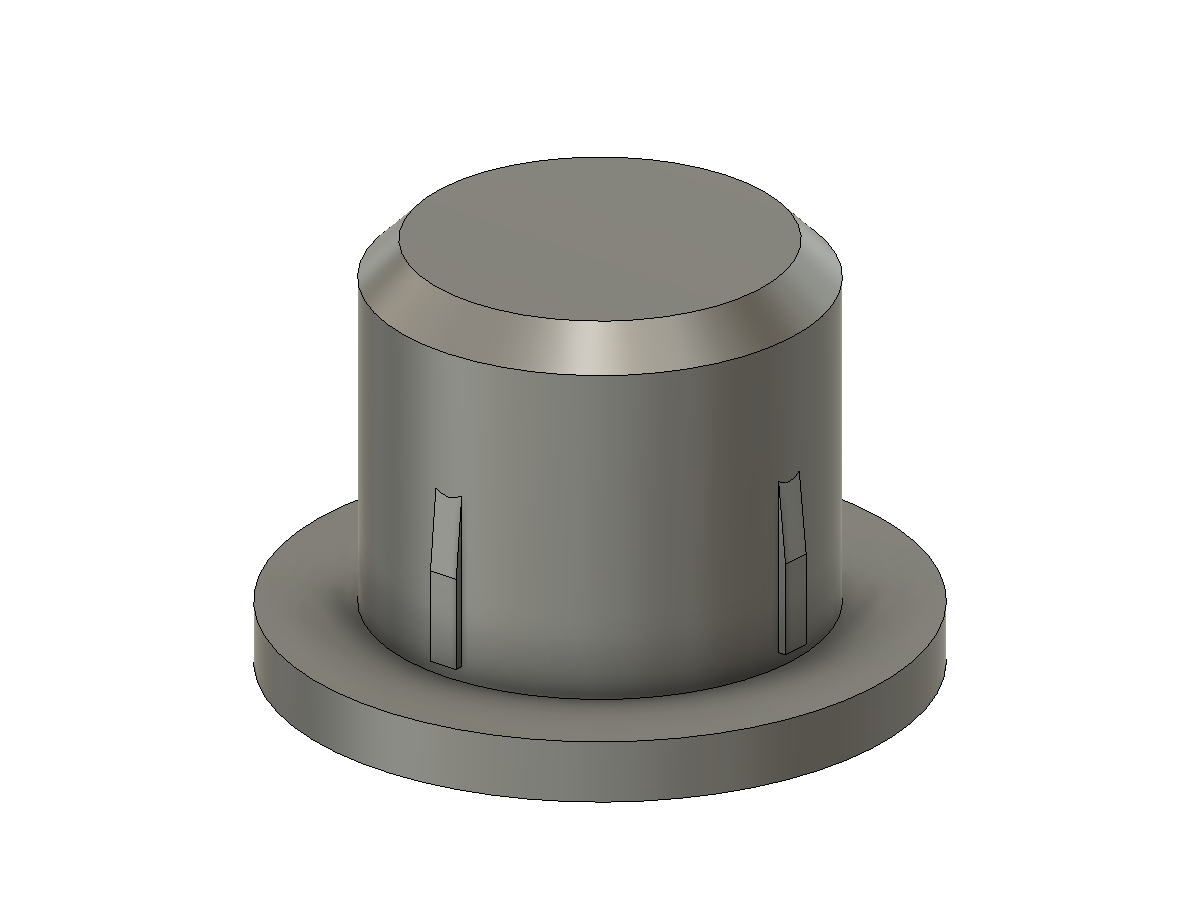
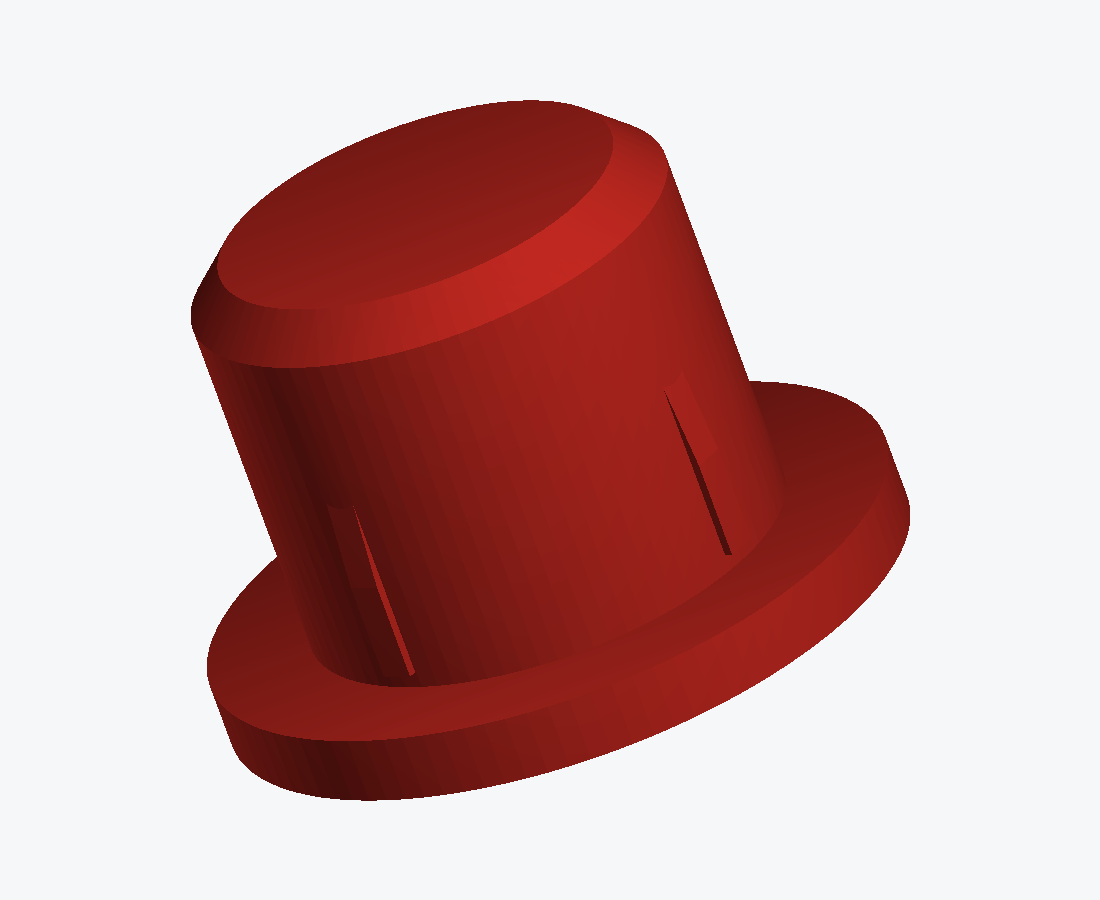
Generic-first intro, the desk's history, sibling link, reproducible renders
The tagline and README led with the Ergotron product name, which is the
thing the rename was for. They now say slotted uprights of a steel bench
frame first and name the desk as the example.

Adds the desk's provenance in Mike's words, as on the sibling site: Ergotron
of Eagan, Minnesota was what NOCs and data centers near him ran on in the
1990s, and this one held the row of computers that ran his employer's small
ISP until the company liquidated.

The sibling link still pointed at lan-skadis-mount. GitHub redirects it, but
the link text was stale.

The three part renders on the site were one-offs with no script behind them,
and the cradle bracket's predated its STL by a commit. render_part.py and
stamp_assets.py come over from the sibling repo unchanged, all three renders
are regenerated with it so they match, and every asset URL now carries a
content hash so Pages cannot serve a stale one.

Claude-Session: https://claude.ai/code/session_01FoDmXWCBAcNMibAdUqDKQj

diff --git a/docs/index.html b/docs/index.html
@@ -155,16 +155,16 @@
 <main>
   <header>
     <h1>Filament everywhere. So it hangs off the old Ergotron.</h1>
-    <p class="tagline">3D printed brackets that hook into the slotted uprights of an Ergotron LAN Organizer 3000 and cradle spools on two rods. No drilling, no hardware, nothing permanent. Free files, MIT licensed.</p>
+    <p class="tagline">3D printed brackets that hook into the slotted uprights of a steel bench frame, an Ergotron LAN Organizer 3000 in my case, and cradle spools on two rods. No drilling, no hardware, nothing permanent. Free files, MIT licensed.</p>
   </header>
 
   <figure class="zoomable">
-    <img src="images/shelf-loaded.jpg" alt="A loaded spool shelf: fifteen filament spools resting on two white PVC rods carried by red printed brackets hooked into a steel upright" data-zoom>
+    <img src="images/shelf-loaded.jpg?v=1bb53a07" alt="A loaded spool shelf: fifteen filament spools resting on two white PVC rods carried by red printed brackets hooked into a steel upright" data-zoom>
     <figcaption>Fifteen spools on one level, and the bracket that holds them. Nothing is screwed to the frame. The brackets hook into the same slots Ergotron's own shelves use, and lift back out.</figcaption>
   </figure>
 
   <model-viewer
-    src="models/spool-shelf.glb"
+    src="models/spool-shelf.glb?v=003eb26d"
     alt="3D model of one shelf level: two printed brackets hooked to uprights, two rods, end caps, three spools resting in the cradle and a label clip"
     camera-controls
     auto-rotate
@@ -181,16 +181,20 @@
   <p>Filament was living in a heap. Bags on the bench, spools stacked on their sides under the printers, and the one I wanted always at the bottom of the pile. Meanwhile the printers were sitting on an Ergotron LAN Organizer 3000, a 2004 vintage steel desk frame with punched slots up every upright. If you were designing a mounting surface for this from scratch, you would end up with that.</p>
   <p>The frame is discontinued. The order guide that outlived it, Ergotron 870-03-006, has frame widths and weight capacities and no slot dimensions at all. So the whole project starts with a ruler.</p>
 
+  <h2>The desk</h2>
+  <p>In the 1990s it felt like every NOC and data center, at least the ones near me, had furniture from <a href="https://www.ergotron.com/">Ergotron</a> in <a href="https://en.wikipedia.org/wiki/Eagan,_Minnesota">Eagan, Minnesota</a>. The desks matched the look those rooms had and the job they did.</p>
+  <p>The one I have sat in a data center with a row of computers on it. They ran the small ISP my employer operated. I picked it up when the company liquidated, after they were no more. The slotted uprights are the same ones that held their shelves, which is why nothing here needs a drill.</p>
+
   <h2>How it works</h2>
   <p>Two brackets hook into one upright each, and two rods span between them. Spools rest in the valley between the rods instead of threading onto a pole. That was not the first design. The first one was a single rod you hang spools on, and it lasted about ten seconds of thinking about daily use. Every spool change means pulling the pole and sliding everything off the end.</p>
   <p>With two rods you lift a spool straight up and out, and drop the next one in. Nothing else moves. A spool sitting in the cradle also rolls freely, so it feeds without a fight.</p>
   <div class="shots">
     <figure>
-      <img src="images/spool_cradle_bracket_iso.png" alt="The cradle bracket: hook blades at the back, triangular arm, two open saddles on top" loading="lazy" data-zoom>
+      <img src="images/spool_cradle_bracket_iso.png?v=d26df1be" alt="The cradle bracket: hook blades at the back, triangular arm, two open saddles on top" loading="lazy" data-zoom>
       <figcaption>The bracket. Hooks at the back, two open saddles on top, one lightening cutout in the middle.</figcaption>
     </figure>
     <figure>
-      <img src="images/rod_end_cap_iso.png" alt="The rod end cap: a wide flange and a ribbed stem" loading="lazy" data-zoom>
+      <img src="images/rod_end_cap_iso.png?v=bc3c34fb" alt="The rod end cap: a wide flange and a ribbed stem" loading="lazy" data-zoom>
       <figcaption>End cap. The stem grips the pipe bore, the flange keeps the rod from walking out of a saddle.</figcaption>
     </figure>
   </div>
@@ -203,7 +207,7 @@
   <p>Then the pipe. Schedule 40 one inch PVC has a published bore of 26.6&nbsp;mm. The actual pipe measured 30. The first set of end caps were scrap by 4&nbsp;mm, which is a lot of millimetres to be wrong by when the number is printed in a table.</p>
   <p>The third mistake was mine. The caps were too snug to start. The fix was not a bigger chamfer but a different rib shape. Each of the four crush ribs now starts flush with the stem at the tip and only rises to full height over the last 6&nbsp;mm, so the cap slides in loose, centres itself, and grips just as the flange lands.</p>
   <figure class="zoomable">
-    <img src="images/shelf-prototype.jpg" alt="An early test with a copper pipe and a length of conduit carrying spools" loading="lazy" data-zoom>
+    <img src="images/shelf-prototype.jpg?v=7963c04f" alt="An early test with a copper pipe and a length of conduit carrying spools" loading="lazy" data-zoom>
     <figcaption>Before buying pipe, a copper offcut and a length of conduit proved the cradle worked. The saddles take anything up to the configured diameter, so the rod is a decision you can put off.</figcaption>
   </figure>
 
@@ -226,11 +230,11 @@
   <h2>The small parts</h2>
   <div class="shots">
     <figure>
-      <img src="images/rod_label_clip_iso.png" alt="The label clip: a C ring with a paddle carrying a label face" loading="lazy" data-zoom>
+      <img src="images/rod_label_clip_iso.png?v=cd7c8872" alt="The label clip: a C ring with a paddle carrying a label face" loading="lazy" data-zoom>
       <figcaption>Label clip. Snaps on from below, slides to sit under its spool, takes a 1" × 2⅛" label.</figcaption>
     </figure>
     <figure>
-      <img src="images/spool_cradle_bracket_iso.png" alt="The bracket again, showing the hook stack" loading="lazy" data-zoom>
+      <img src="images/spool_cradle_bracket_iso.png?v=d26df1be" alt="The bracket again, showing the hook stack" loading="lazy" data-zoom>
       <figcaption>Four hook rows on 1" pitch. The blade column is centred, so one bracket fits any upright.</figcaption>
     </figure>
   </div>
@@ -264,7 +268,7 @@
     <li>STLs for every part, verified watertight against the CAD volume</li>
     <li>STEP and Fusion archives if you want to change things</li>
     <li>The build scripts, with every dimension at the top of one file per part</li>
-    <li>A sibling project, <a href="https://github.com/mhuot/lan-skadis-mount">lan-skadis-mount</a>, hangs an IKEA SKÅDIS pegboard on the same uprights and doubles as a backstop behind the spools</li>
+    <li>A sibling project, <a href="https://github.com/mhuot/skadis-bench-frame-mount">skadis-bench-frame-mount</a>, hangs an IKEA SKÅDIS pegboard on the same uprights and doubles as a backstop behind the spools</li>
   </ul>
   <p><a class="cta" href="https://github.com/mhuot/bench-frame-spool-shelf">Get it on GitHub</a></p>
 

diff --git a/scripts/render_part.py b/scripts/render_part.py
@@ -1,0 +1,156 @@
+"""Render an exported STL to a PNG for the docs page.
+
+Runs locally in .venv (trimesh, numpy, pillow):
+
+    .venv/bin/python scripts/render_part.py exports/skadis_nut_left.stl \
+        docs/images/nut_bracket_front.png --azimuth 35
+
+A painter's-algorithm rasteriser rather than a real renderer: no GPU, no
+headless GL, nothing to install beyond what check_stl.py already needs. It
+is enough to prove a part looks like what the build script says it is, and
+to put an honest picture on the page.
+"""
+
+import argparse
+
+import numpy as np
+import trimesh
+from PIL import Image
+
+WIDTH, HEIGHT = 1100, 900
+BACKGROUND = np.array([0.965, 0.969, 0.976])  # matches the page's --bg
+PART_COLOUR = np.array([0.776, 0.165, 0.133])  # the red ASA, sRGB
+CAP_COLOUR = np.array([0.93, 0.62, 0.58])  # cut faces of a section, so voids read
+LIGHT = np.array([0.35, 0.5, 0.79])
+# Surfaces further from the camera are darkened by up to this fraction. Flat
+# orthographic shading gives a hole whose floor is parallel to the surface
+# around it exactly the same tone as that surface, which made a 20 mm deep
+# entry slot vanish entirely; a depth cue is the difference between a
+# drawing of a solid block and a drawing of the part.
+DEPTH_FOG = 0.35
+
+
+def oriented(mesh, azimuth_deg, elevation_deg):
+    """A copy of the mesh turned to the requested view."""
+    working = mesh.copy()
+    for angle, axis in ((-elevation_deg, [1, 0, 0]), (azimuth_deg, [0, 0, 1])):
+        working.apply_transform(
+            trimesh.transformations.rotation_matrix(
+                np.radians(angle), axis, working.centroid
+            )
+        )
+    return working
+
+
+def shaded(mesh):
+    """Per-face brightness from a single key light plus ambient."""
+    triangles = mesh.vertices[:, [0, 2, 1]][mesh.faces]
+    normals = np.cross(
+        triangles[:, 1] - triangles[:, 0], triangles[:, 2] - triangles[:, 0]
+    )
+    lengths = np.linalg.norm(normals, axis=1, keepdims=True)
+    normals = normals / np.where(lengths == 0, 1, lengths)
+    key = LIGHT / np.linalg.norm(LIGHT)
+    return np.clip(np.abs(normals @ key), 0, 1) * 0.62 + 0.38, triangles
+
+
+# pylint: disable-next=too-many-locals
+def render(mesh, azimuth_deg, elevation_deg, is_cap=None):
+    """Rasterise the mesh to an RGB array."""
+    brightness, triangles = shaded(oriented(mesh, azimuth_deg, elevation_deg))
+    colours = np.tile(PART_COLOUR, (len(triangles), 1))
+    if is_cap is not None:
+        colours[is_cap] = CAP_COLOUR
+    flat = triangles.reshape(-1, 3)
+    low, high = flat.min(0), flat.max(0)
+    span = max(high[0] - low[0], high[1] - low[1]) or 1.0
+    scale = min(WIDTH, HEIGHT) * 0.80 / span
+    centre = (low + high) / 2.0
+    screen = triangles.copy()
+    screen[:, :, 0] = (triangles[:, :, 0] - centre[0]) * scale + WIDTH / 2.0
+    screen[:, :, 1] = HEIGHT / 2.0 - (triangles[:, :, 1] - centre[1]) * scale
+
+    image = np.tile(BACKGROUND.astype(np.float32), (HEIGHT, WIDTH, 1))
+    depth = np.full((HEIGHT, WIDTH), -np.inf)
+    grid_x, grid_y = np.meshgrid(np.arange(WIDTH), np.arange(HEIGHT))
+    for index in np.argsort(triangles[:, :, 2].mean(axis=1)):
+        tri = screen[index]
+        min_x, max_x = max(int(tri[:, 0].min()), 0), min(
+            int(tri[:, 0].max()) + 2, WIDTH
+        )
+        min_y, max_y = max(int(tri[:, 1].min()), 0), min(
+            int(tri[:, 1].max()) + 2, HEIGHT
+        )
+        if min_x >= max_x or min_y >= max_y:
+            continue
+        px, py = grid_x[min_y:max_y, min_x:max_x], grid_y[min_y:max_y, min_x:max_x]
+        (x0, y0), (x1, y1), (x2, y2) = tri[:, :2]
+        denominator = (y1 - y2) * (x0 - x2) + (x2 - x1) * (y0 - y2)
+        if abs(denominator) < 1e-9:
+            continue
+        weight_a = ((y1 - y2) * (px - x2) + (x2 - x1) * (py - y2)) / denominator
+        weight_b = ((y2 - y0) * (px - x2) + (x0 - x2) * (py - y2)) / denominator
+        weight_c = 1.0 - weight_a - weight_b
+        inside = (weight_a >= 0) & (weight_b >= 0) & (weight_c >= 0)
+        if not inside.any():
+            continue
+        z = weight_a * tri[0, 2] + weight_b * tri[1, 2] + weight_c * tri[2, 2]
+        closer = inside & (z > depth[min_y:max_y, min_x:max_x])
+        if not closer.any():
+            continue
+        depth[min_y:max_y, min_x:max_x][closer] = z[closer]
+        image[min_y:max_y, min_x:max_x][closer] = colours[index] * brightness[index]
+    drawn = np.isfinite(depth)
+    if drawn.any():
+        near, far = depth[drawn].max(), depth[drawn].min()
+        fog = 1.0 - DEPTH_FOG * (near - depth[drawn]) / max(near - far, 1e-6)
+        image[drawn] *= fog[:, None]
+    return (np.clip(image, 0, 1) * 255).astype(np.uint8)
+
+
+def cap_faces(mesh, axis, at_mm):
+    """Mask of faces lying in the section plane -- the cap, not the part."""
+    column = "xyz".index(axis)
+    on_plane = np.abs(mesh.vertices[:, column] - at_mm) < 1e-4
+    return on_plane[mesh.faces].all(axis=1)
+
+
+def sectioned(mesh, axis, at_mm):
+    """Cut the mesh with a plane and cap it, so internal voids are visible.
+
+    A captured cavity is invisible from outside by definition, which is the
+    whole point of it and also the whole problem with rendering it.
+    """
+    normal = {"x": [1.0, 0, 0], "y": [0, 1.0, 0], "z": [0, 0, 1.0]}[axis]
+    origin = [value * at_mm for value in normal]
+    half = mesh.slice_plane(
+        plane_origin=origin, plane_normal=[-value for value in normal], cap=True
+    )
+    if half is None or half.is_empty:
+        raise SystemExit(f"section at {axis}={at_mm} removed the whole part")
+    return half
+
+
+def main():
+    """Render one STL from one viewpoint, optionally cut open."""
+    parser = argparse.ArgumentParser(description=__doc__)
+    parser.add_argument("stl")
+    parser.add_argument("png")
+    parser.add_argument("--azimuth", type=float, default=35.0)
+    parser.add_argument("--elevation", type=float, default=20.0)
+    parser.add_argument("--section-axis", choices=("x", "y", "z"))
+    parser.add_argument("--section-at", type=float, default=0.0)
+    arguments = parser.parse_args()
+    mesh = trimesh.load(arguments.stl, force="mesh")
+    is_cap = None
+    if arguments.section_axis:
+        mesh = sectioned(mesh, arguments.section_axis, arguments.section_at)
+        is_cap = cap_faces(mesh, arguments.section_axis, arguments.section_at)
+    Image.fromarray(render(mesh, arguments.azimuth, arguments.elevation, is_cap)).save(
+        arguments.png
+    )
+    print(f"wrote {arguments.png}  extents mm {mesh.extents.round(2)}")
+
+
+if __name__ == "__main__":
+    main()

diff --git a/scripts/stamp_assets.py b/scripts/stamp_assets.py
@@ -1,0 +1,56 @@
+"""Stamp docs/index.html's local asset URLs with a content hash.
+
+Runs locally in .venv, after anything that regenerates a model or an image:
+
+    .venv/bin/python scripts/stamp_assets.py
+
+GitHub Pages serves models and images with a long cache lifetime, so a
+visitor who has seen the page once keeps the copy they already have even
+after the file changes on the server. That is how a corrected assembly model
+kept rendering with its brackets in the old place on a phone that had loaded
+the page before: the HTML was current, the GLB beside it was months of cache
+old, and nothing about the page looked broken.
+
+Appending ?v=<hash of the file> makes the URL change whenever the bytes do,
+so the browser fetches it again, and stay identical when they do not, so it
+keeps caching normally. Run it before committing; it is idempotent.
+"""
+
+import hashlib
+import pathlib
+import re
+
+PAGE = pathlib.Path("docs/index.html")
+ATTRIBUTE = re.compile(r'(src|href)="(?!https?:|#|mailto:)([^"?]+)(\?v=[0-9a-f]+)?"')
+
+
+def digest(path):
+    """First eight hex characters of the file's SHA-256."""
+    return hashlib.sha256(path.read_bytes()).hexdigest()[:8]
+
+
+def main():
+    """Rewrite every local asset URL in the page with its content hash."""
+    text = PAGE.read_text(encoding="utf-8")
+    stamped, skipped = [], []
+
+    def replace(match):
+        attribute, url, existing = match.group(1), match.group(2), match.group(3)
+        target = PAGE.parent / url
+        if not url or not target.is_file():
+            skipped.append(url or "(empty)")
+            return match.group(0)
+        stamp = f"?v={digest(target)}"
+        stamped.append(f"{url}{stamp}" + ("  (unchanged)" if existing == stamp else ""))
+        return f'{attribute}="{url}{stamp}"'
+
+    PAGE.write_text(ATTRIBUTE.sub(replace, text), encoding="utf-8")
+    for entry in stamped:
+        print(f"  stamped {entry}")
+    for entry in skipped:
+        print(f"  skipped {entry} -- not a file on disk")
+    print(f"{len(stamped)} asset(s) stamped in {PAGE}")
+
+
+if __name__ == "__main__":
+    main()

diff --git a/README.md b/README.md
@@ -2,9 +2,9 @@
 
 **[Project site &rarr; mhuot.github.io/bench-frame-spool-shelf](https://mhuot.github.io/bench-frame-spool-shelf/)**
 
-Filament spool storage for an Ergotron LAN Organizer 3000. Two printed
-brackets hook into the slotted DuraFrame uprights and carry two parallel
-rods. Spools rest in the valley between the rods. Lift one straight out,
+Filament spool storage that hangs on the slotted uprights of a steel bench
+frame. Mine is an Ergotron LAN Organizer 3000. Two printed brackets hook
+into the slotted DuraFrame uprights and carry two parallel rods. Spools rest in the valley between the rods. Lift one straight out,
 drop the next one in, nothing else moves. A spool in the cradle rolls
 freely, so it feeds without a fight. No drilling and no hardware. The
 brackets hook in the same way Ergotron's own shelves do.
@@ -13,6 +13,18 @@ The rods are 1" schedule 40 PVC by default. Wooden dowels, aluminium pipe
 and conduit all work too. More on that below.
 
 ![Spool cradle bracket](docs/images/spool_cradle_bracket_iso.png)
+
+## The desk
+
+In the 1990s it felt like every NOC and data center, at least the ones near
+me, had furniture from [Ergotron](https://www.ergotron.com/) in
+[Eagan, Minnesota](https://en.wikipedia.org/wiki/Eagan,_Minnesota). The desks
+matched the look those rooms had and the job they did.
+
+The one I have sat in a data center with a row of computers on it. They ran
+the small ISP my employer operated. I picked it up when the company
+liquidated, after they were no more. The slotted uprights are the same ones
+that held their shelves, which is why nothing here needs a drill.
 
 ## Parts
 

diff --git a/CLAUDE.md b/CLAUDE.md
@@ -90,3 +90,12 @@ Print brackets lying on a side face (rod axis vertical in the slicer) so
 layer planes coincide with the loaded XZ plane. PETG or PLA+, 4+ perimeters,
 40%+ infill. The hook lips carry ~100 N in tension at full load (8 spools);
 do not print them in a weak orientation.
+
+## Site assets
+
+`scripts/render_part.py` renders an exported STL to a PNG for docs/images
+(copied from skadis-bench-frame-mount, generic). `scripts/stamp_assets.py`
+rewrites every local asset URL in docs/index.html as ?v=<content hash>. Run
+it after regenerating any model or render: Pages caches assets hard, and a
+corrected file kept rendering the old one on a phone with current HTML
+beside it and nothing visibly wrong.
